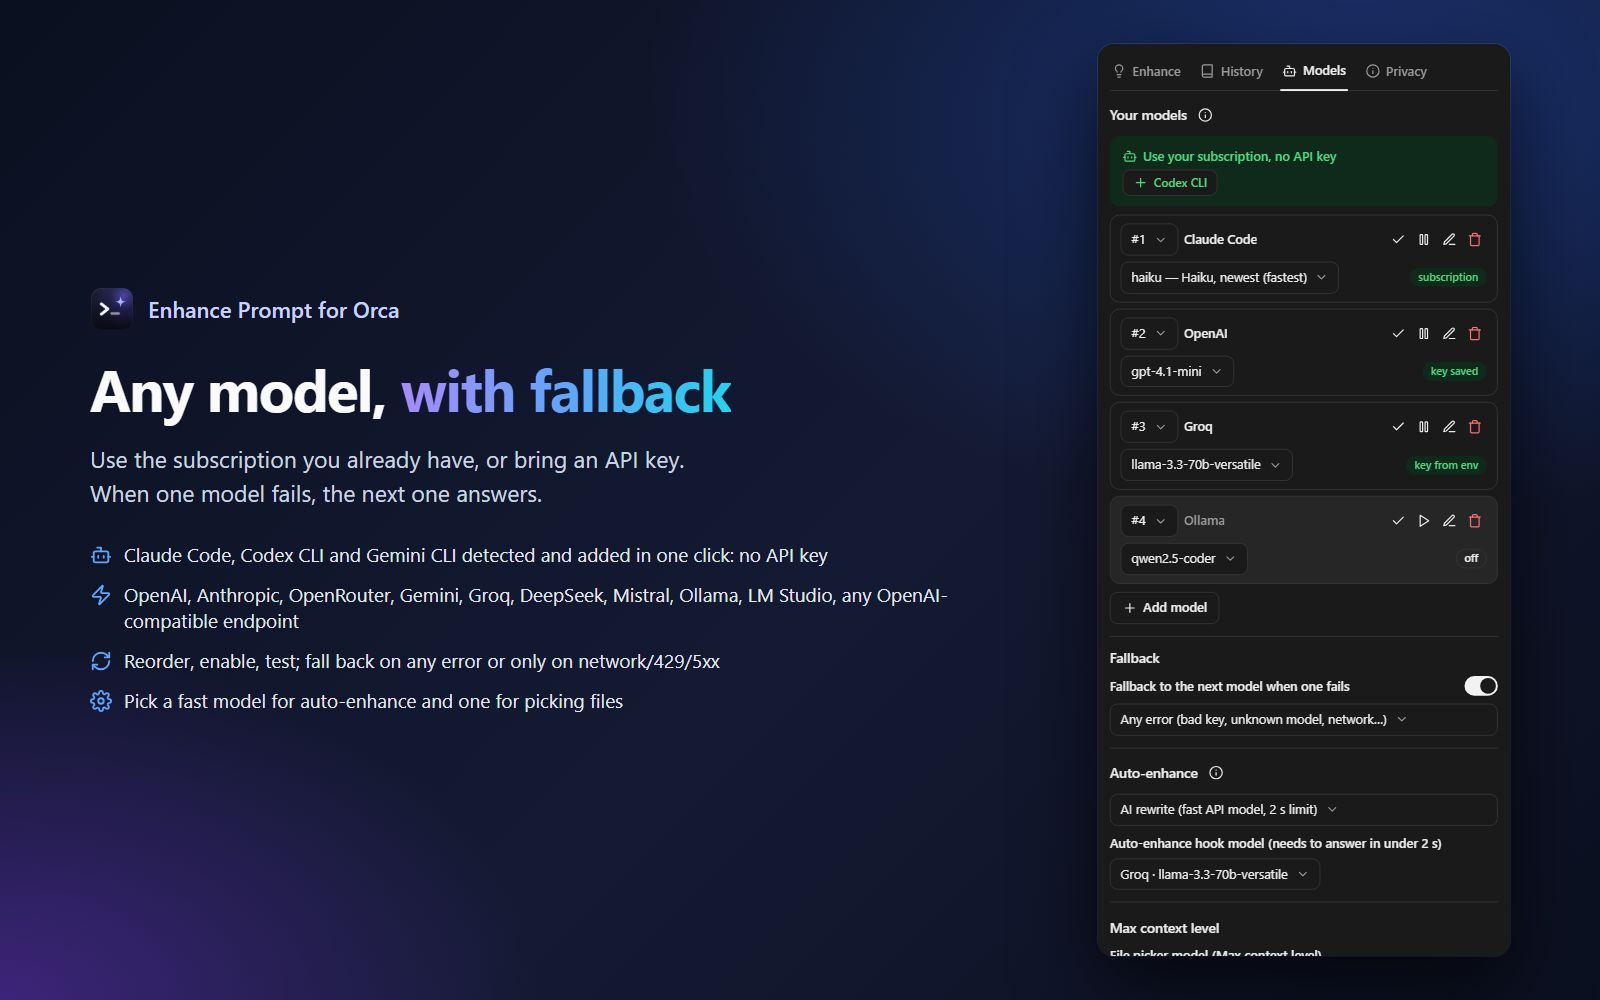
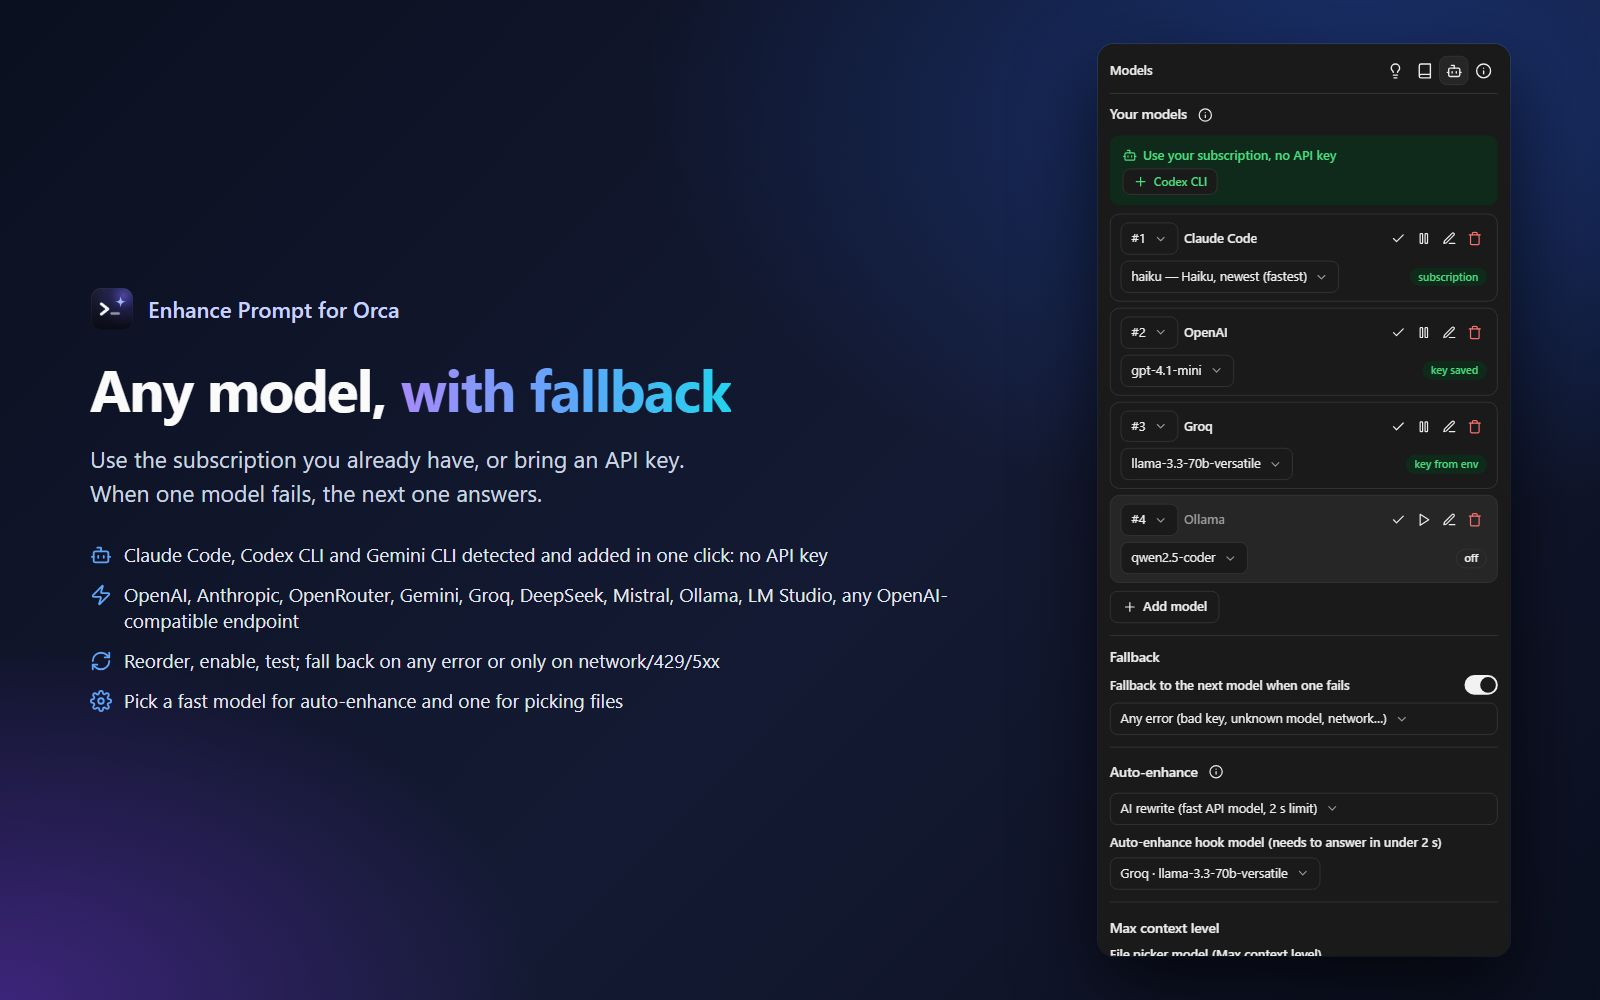
v1.8.2: Nothing is hidden in a narrow sidebar

diff --git a/src/panel.tsx b/src/panel.tsx
@@ -26,8 +26,6 @@ import {
   Spinner,
   Stack,
   Switch,
-  Tab,
-  Tabs,
   Text,
   Textarea,
   update,
@@ -733,7 +731,7 @@ function ResultCard({ output }: { output: string }) {
       </Row>
       <Textarea label={t('Enhanced prompt')} labelHidden rows={10} value={output} onChange={(value) => set(result, value)} onSubmit={(value) => void send(value)} />
       <RunInfo />
-      <Row gap="xs">
+      <Row gap="xs" wrap>
         <TargetPicker />
         <Button variant="solid" icon="play" onPress={() => void send(output)} disabled={!read(target) || working !== null}>
           {t('Send')}
@@ -1074,7 +1072,7 @@ function ProfileCard({ profile, index, count, fromEnv }: { profile: ProfileView;
           )}
         </Row>
       </Row>
-      <Row gap="xs" justify="between">
+      <Row gap="xs" justify="between" wrap>
         <QuickModel profile={profile} fromEnv={fromEnv} />
         <Badge tone={profile.keySource === 'none' ? 'warning' : profile.enabled ? 'success' : 'neutral'}>
           {profile.enabled ? t(KEY_LABEL[profile.keySource]) : t('off')}
@@ -1313,29 +1311,51 @@ function ModelsTab() {
   )
 }
 
-export default function Panel() {
+const SECTIONS = [
+  { value: 'enhance', label: 'Enhance', icon: 'lightbulb' },
+  { value: 'history', label: 'History', icon: 'book' },
+  { value: 'models', label: 'Models', icon: 'agent' },
+  { value: 'privacy', label: 'Privacy', icon: 'info' }
+] as const
+
+function openSection(value: string): void {
+  set(tab, value)
+  if (value === 'privacy') void refreshDataSummary()
+}
+
+/**
+ * Icon navigation instead of Tabs: four 30px buttons fit any sidebar width, where Orca's tab strip
+ * hides the tabs that do not fit. The section name sits on the left; each icon names itself on hover.
+ */
+function Nav() {
+  const current = SECTIONS.find((section) => section.value === read(tab)) ?? SECTIONS[0]
   return (
-    <Tabs
-      label="Enhance Prompt"
-      value={read(tab)}
-      onChange={(value) => {
-        set(tab, value)
-        if (value === 'privacy') void refreshDataSummary()
-      }}
-    >
-      <Tab value="enhance" label={t('Enhance')} icon="lightbulb">
-        <EnhanceTab />
-      </Tab>
-      <Tab value="history" label={t('History')} icon="book">
-        <HistoryTab />
-      </Tab>
-      <Tab value="models" label={t('Models')} icon="agent">
-        <ModelsTab />
-      </Tab>
-      <Tab value="privacy" label={t('Privacy')} icon="info">
-        <PrivacyTab />
-      </Tab>
-    </Tabs>
+    <Row justify="between" gap="xs">
+      <Text weight="semibold" truncate>
+        {t(current.label)}
+      </Text>
+      <Row gap="none">
+        {SECTIONS.map((section) => (
+          <IconButton
+            key={section.value}
+            icon={section.icon}
+            label={section.value === 'history' ? `${t('History')} (${read(history).length})` : t(section.label)}
+            variant={section.value === current.value ? 'outline' : 'ghost'}
+            onPress={() => openSection(section.value)}
+          />
+        ))}
+      </Row>
+    </Row>
   )
 }
 
+export default function Panel() {
+  const current = read(tab)
+  return (
+    <Stack gap="sm">
+      <Nav />
+      <Separator />
+      {current === 'history' ? <HistoryTab /> : current === 'models' ? <ModelsTab /> : current === 'privacy' ? <PrivacyTab /> : <EnhanceTab />}
+    </Stack>
+  )
+}

diff --git a/src/i18n.test.tsx b/src/i18n.test.tsx
@@ -48,9 +48,9 @@ test('the panel renders in Vietnamese from the uiLanguage setting', async () => 
   assert.ok(view.find({ label: 'Prompt của bạn' }))
   assert.ok(view.find({ text: /Chưa có model/ }) ?? view.find({ label: 'Chưa có model' }))
   // The language menu is at the bottom of the Models tab.
-  await view.select({ type: 'Tabs' }, 'models')
+  await view.press({ role: 'button', label: 'Model' })
   await view.select({ label: 'Ngôn ngữ' }, 'zh')
-  await view.select({ type: 'Tabs' }, 'enhance')
+  await view.press({ role: 'button', label: '优化' })
   assert.ok(view.find({ label: '你的提示词' }))
   assert.equal(host.data().settings.uiLanguage, 'zh')
   assert.deepEqual(view.errors, [])

diff --git a/src/panel.test.tsx b/src/panel.test.tsx
@@ -90,7 +90,7 @@ test('warns when no model is configured, and adds one from the Models tab', asyn
   })
   const view = await mount(panel, { host })
   assert.ok(view.find({ label: 'No model yet' }) ?? view.find({ text: /No model yet/ }))
-  await view.select({ type: 'Tabs' }, 'models')
+  await view.press({ role: 'button', label: 'Models' })
   await view.press({ role: 'button', text: 'Add model' })
   await view.select({ label: 'Preset' }, 'groq')
   await view.type({ label: 'API key' }, 'gsk-1')

diff --git a/README.md b/README.md
@@ -20,6 +20,8 @@
 
 <h3 align="center"><a href="#install"><ins>Install Enhance Prompt</ins></a></h3>
 
+<p align="center"><a href="https://onorca.dev/plugins/cattfan.enhance-prompt?catalog=community"><img src="https://img.shields.io/badge/Open%20in%20Orca-community%20catalog-4493F8?style=for-the-badge" alt="Open in Orca" /></a></p>
+
 <p align="center">
   <img src="assets/cover.jpg" alt="The Enhance Prompt panel turning “login page is broken on mobile” into a structured bug-fix prompt that names the files and the test command" width="960" />
 </p>
@@ -149,9 +151,12 @@ Works with **your subscription CLI** or **any API key**.
 
 ### From Orca
 
-1. Open **Settings → Plugins**, search for **Enhance Prompt** and click **Install**.
-2. Review what it asks for and approve it.
-3. Open the right sidebar with `Ctrl+L` (`⌘L` on macOS) and click the **lightbulb** tab. Clicking **Enhance: off** in the status bar does the same.
+**[Open in Orca](https://onorca.dev/plugins/cattfan.enhance-prompt?catalog=community)** takes you straight to the plugin's page in Orca. Or by hand:
+
+1. Open **Settings → Plugins**. Once, add the community catalog with **Add marketplace**: URL `https://github.com/stablyai/orca-community-plugins.git`, ref `main`. Turn on the setting that allows full-access plugins.
+2. Search for **Enhance Prompt** and click **Install**.
+3. Review what it asks for and approve it.
+4. Open the right sidebar with `Ctrl+L` (`⌘L` on macOS) and click the **lightbulb** tab. Clicking **Enhance: off** in the status bar does the same.
 
 ### From the CLI
 

diff --git a/CHANGELOG.md b/CHANGELOG.md
@@ -3,6 +3,17 @@
 All notable changes to Enhance Prompt. Versions follow [semver](https://semver.org); each
 version is a `vX.Y.Z` git tag and a GitHub release with these notes.
 
+## [1.8.2] - 2026-11-08
+
+### Fixed
+- **Nothing is hidden in a narrow sidebar**: Orca's tab strip hid the tabs that did not fit, so the panel now
+  uses an icon navigation (Enhance, History, Models, Privacy) with the section name on the left; it fits any
+  width. The send row and the model card rows wrap instead of clipping.
+
+### Added
+- **Open in Orca** button and community-catalog install steps in the READMEs (English, Vietnamese, Chinese).
+- The live preview takes `?width=` and `?theme=` in its URL.
+
 ## [1.8.1] - 2026-11-08
 
 ### Fixed
@@ -187,6 +198,7 @@ version is a `vX.Y.Z` git tag and a GitHub release with these notes.
 - Auto-enhance hook for prompts Orca sends to agents (rules or AI), toggled from the status bar.
 - Bracketed paste for multi-line prompts.
 
+[1.8.2]: https://github.com/cattfan/orca-enhance-prompt/releases/tag/v1.8.2
 [1.8.1]: https://github.com/cattfan/orca-enhance-prompt/releases/tag/v1.8.1
 [1.8.0]: https://github.com/cattfan/orca-enhance-prompt/releases/tag/v1.8.0
 [1.7.0]: https://github.com/cattfan/orca-enhance-prompt/releases/tag/v1.7.0

diff --git a/docs/readme/README.vi.md b/docs/readme/README.vi.md
@@ -126,9 +126,12 @@ Mọi prompt đã cải thiện đều được lưu kèm kiểu và model. Tìm
 
 ### Từ Orca
 
-1. Mở **Settings → Plugins**, tìm **Enhance Prompt** và bấm **Install**.
-2. Xem các quyền plugin xin và duyệt.
-3. Mở thanh bên phải bằng `Ctrl+L` (`⌘L` trên macOS) rồi bấm tab **bóng đèn**. Bấm **Enhance: off** ở thanh trạng thái cũng được.
+**[Mở trong Orca](https://onorca.dev/plugins/cattfan.enhance-prompt?catalog=community)** đưa bạn thẳng tới trang của plugin trong Orca. Hoặc làm tay:
+
+1. Mở **Settings → Plugins**. Lần đầu, thêm catalog cộng đồng bằng **Add marketplace**: URL `https://github.com/stablyai/orca-community-plugins.git`, ref `main`. Bật setting cho phép plugin full access.
+2. Tìm **Enhance Prompt** và bấm **Install**.
+3. Xem các quyền plugin xin và duyệt.
+4. Mở thanh bên phải bằng `Ctrl+L` (`⌘L` trên macOS) rồi bấm tab **bóng đèn**. Bấm **Enhance: off** ở thanh trạng thái cũng được.
 
 ### Từ CLI
 

diff --git a/docs/readme/README.zh-CN.md b/docs/readme/README.zh-CN.md
@@ -126,9 +126,12 @@ OpenAI、Anthropic、OpenRouter、Gemini、Groq、DeepSeek、Mistral、Ollama、
 
 ### 在 Orca 中
 
-1. 打开 **Settings → Plugins**，搜索 **Enhance Prompt** 并点击 **Install**。
-2. 查看并批准插件请求的权限。
-3. 用 `Ctrl+L`（macOS 上为 `⌘L`）打开右侧边栏，点击 **灯泡** 标签。也可以点击状态栏的 **Enhance: off**。
+**[在 Orca 中打开](https://onorca.dev/plugins/cattfan.enhance-prompt?catalog=community)** 会直接打开插件页面。或手动安装：
+
+1. 打开 **Settings → Plugins**。首次使用时，用 **Add marketplace** 添加社区目录：URL `https://github.com/stablyai/orca-community-plugins.git`，ref `main`。并开启允许完全访问插件的设置。
+2. 搜索 **Enhance Prompt** 并点击 **Install**。
+3. 查看并批准插件请求的权限。
+4. 用 `Ctrl+L`（macOS 上为 `⌘L`）打开右侧边栏，点击 **灯泡** 标签。也可以点击状态栏的 **Enhance: off**。
 
 ### 通过 CLI
 

diff --git a/docs/settings.md b/docs/settings.md
@@ -6,7 +6,7 @@ Open **Settings → Plugins → Enhance Prompt**. Model profiles, API keys, fall
 
 | Setting | Default | Meaning |
 | --- | --- | --- |
-| Panel language | Auto | Language of the panel: Auto follows Orca, or English, Tiếng Việt, 中文. Also in the menu at the top right of the panel. |
+| Panel language | Auto | Language of the panel: Auto follows Orca, or English, Tiếng Việt, 中文. Also in the menu at the bottom of the panel's Models section. |
 | Output language | Same as my prompt | Language of the enhanced prompt. The **Output** menu on the Enhance tab overrides it for one prompt. |
 
 Code, identifiers, paths and error messages are always kept as they are.

diff --git a/docs/getting-started.md b/docs/getting-started.md
@@ -11,6 +11,8 @@ Enhance Prompt lives in Orca's **right sidebar**.
 
 If you don't see the lightbulb, check that the plugin is enabled under **Settings → Plugins → Enhance Prompt**.
 
+The four icons at the top right of the panel switch between **Enhance** (lightbulb), **History** (book), **Models** (robot) and **Privacy** (i). They fit any sidebar width; hover one to see its name.
+
 ## 2. Add a model
 
 Open the **Models** tab.
